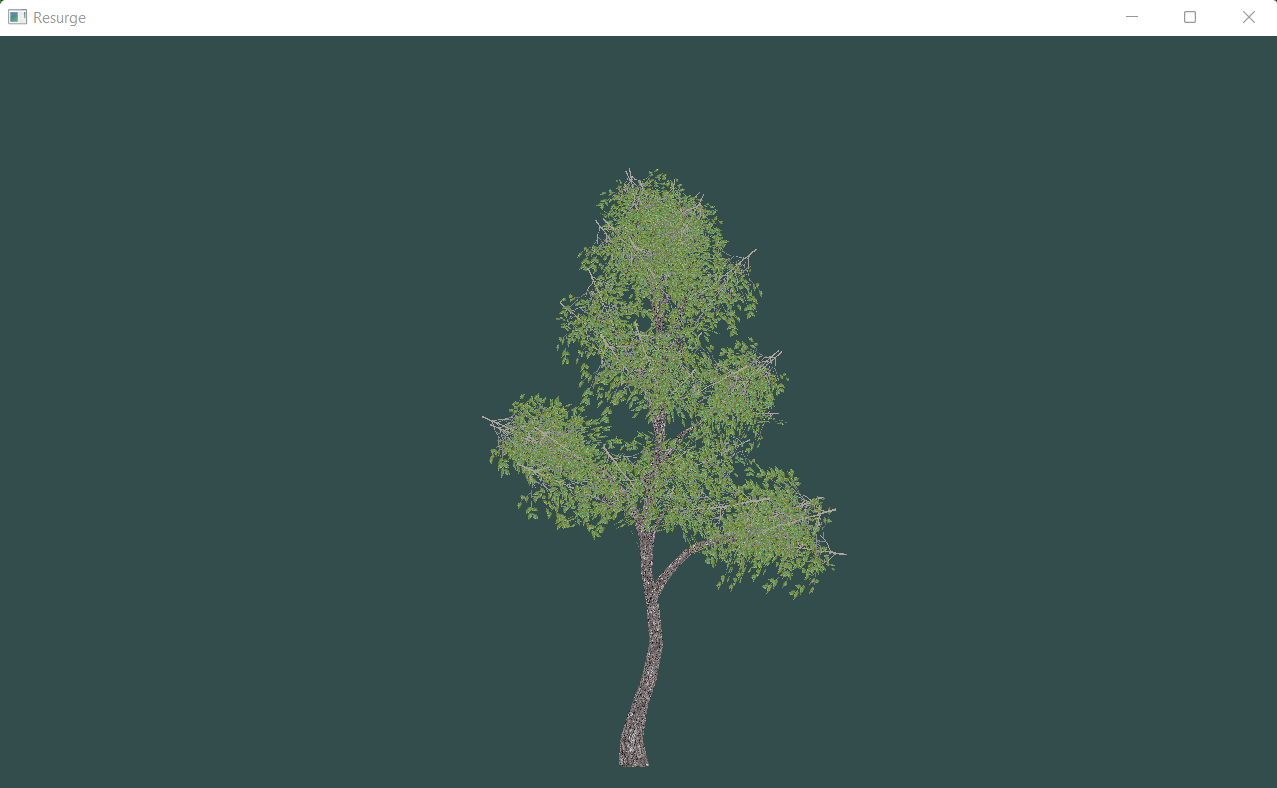
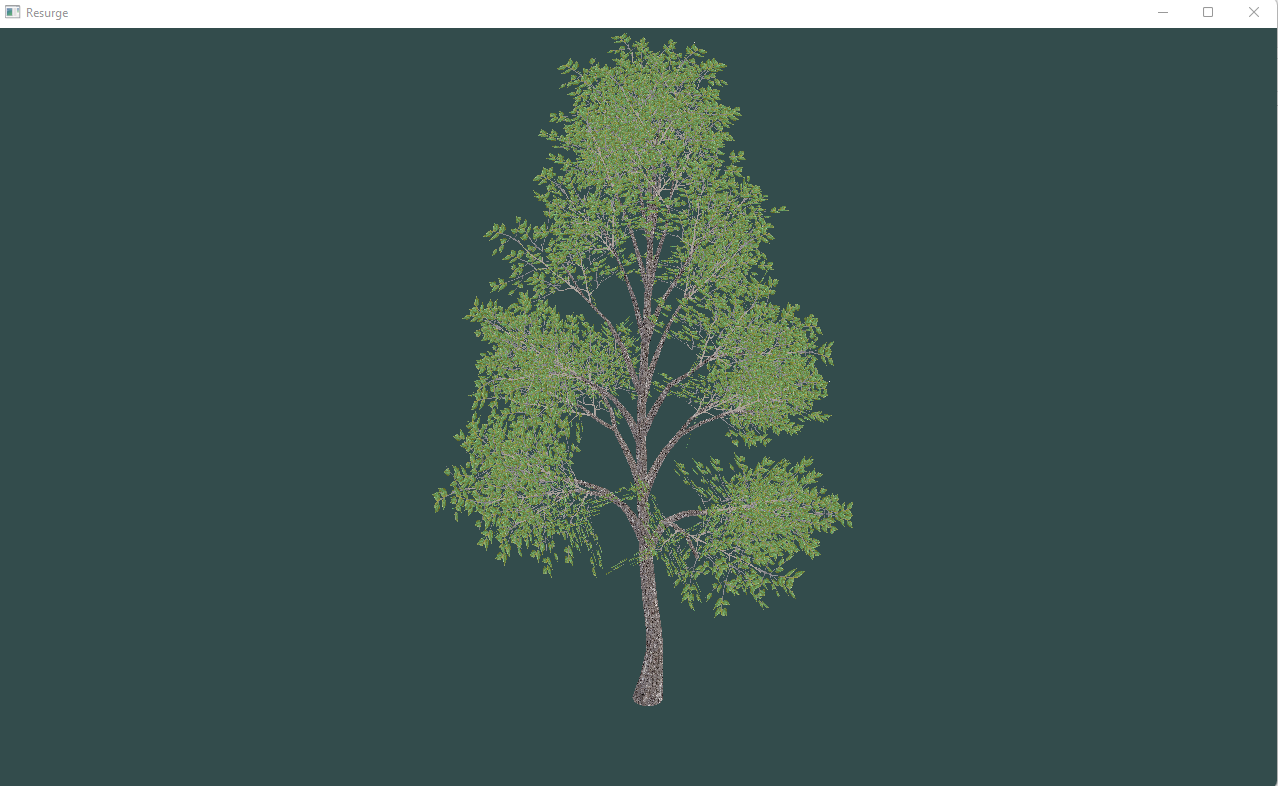
set flip to false in model texture loading method

Changed region(s): [[0.0, 0.0, 1.0, 0.9771]]

diff --git a/Resurge/src/game/GameApp.cpp b/Resurge/src/game/GameApp.cpp
@@ -27,8 +27,8 @@ void GameApp::OnUserCreate()
 	AB_INFO("Window init succesfully");
 
 	ResManager::CreateModel("testImporter");
-	//ResManager::GetModel("testImporter")->LoadModel("src/game/res/models/envirorment/tree_model_1/scene.gltf");
-	ResManager::GetModel("testImporter")->LoadModel("src/game/res/models/testmodels/textured_cube/scene.gltf");
+	ResManager::GetModel("testImporter")->LoadModel("src/game/res/models/envirorment/tree_model_1/scene.gltf");
+	//ResManager::GetModel("testImporter")->LoadModel("src/game/res/models/testmodels/textured_cube/scene.gltf");
 
 	ResManager::CreateShader("src/game/res/shaders/treeVS.glsl", "src/game/res/shaders/treeFS.glsl", "testImporter");
 }

diff --git a/Resurge/src/engine/renderer/Renderer.cpp b/Resurge/src/engine/renderer/Renderer.cpp
@@ -34,7 +34,7 @@ namespace Amba {
 		int id = 0;
  		for (auto& mesh : model->m_Meshes)
 		{
-			glm::mat4 finalTSR = glm::scale(mesh.m_TSR, glm::vec3(0.1f));
+			glm::mat4 finalTSR = glm::scale(mesh.m_TSR, glm::vec3(0.001f));
 			shader->SetUniform4mat("u_Transform", finalTSR);
 
 			// for now, I will use models with only 1 texture for each mesh

diff --git a/Resurge/src/engine/model/Model.cpp b/Resurge/src/engine/model/Model.cpp
@@ -115,7 +115,7 @@ namespace Amba {
         if (!skip)
         {
             Texture texture(m_Directory + uri);
-            texture.LoadTexture(true);
+            texture.LoadTexture(false);
             textures.push_back(texture);
             m_TexturesLoaded.push_back(texture);
         }
